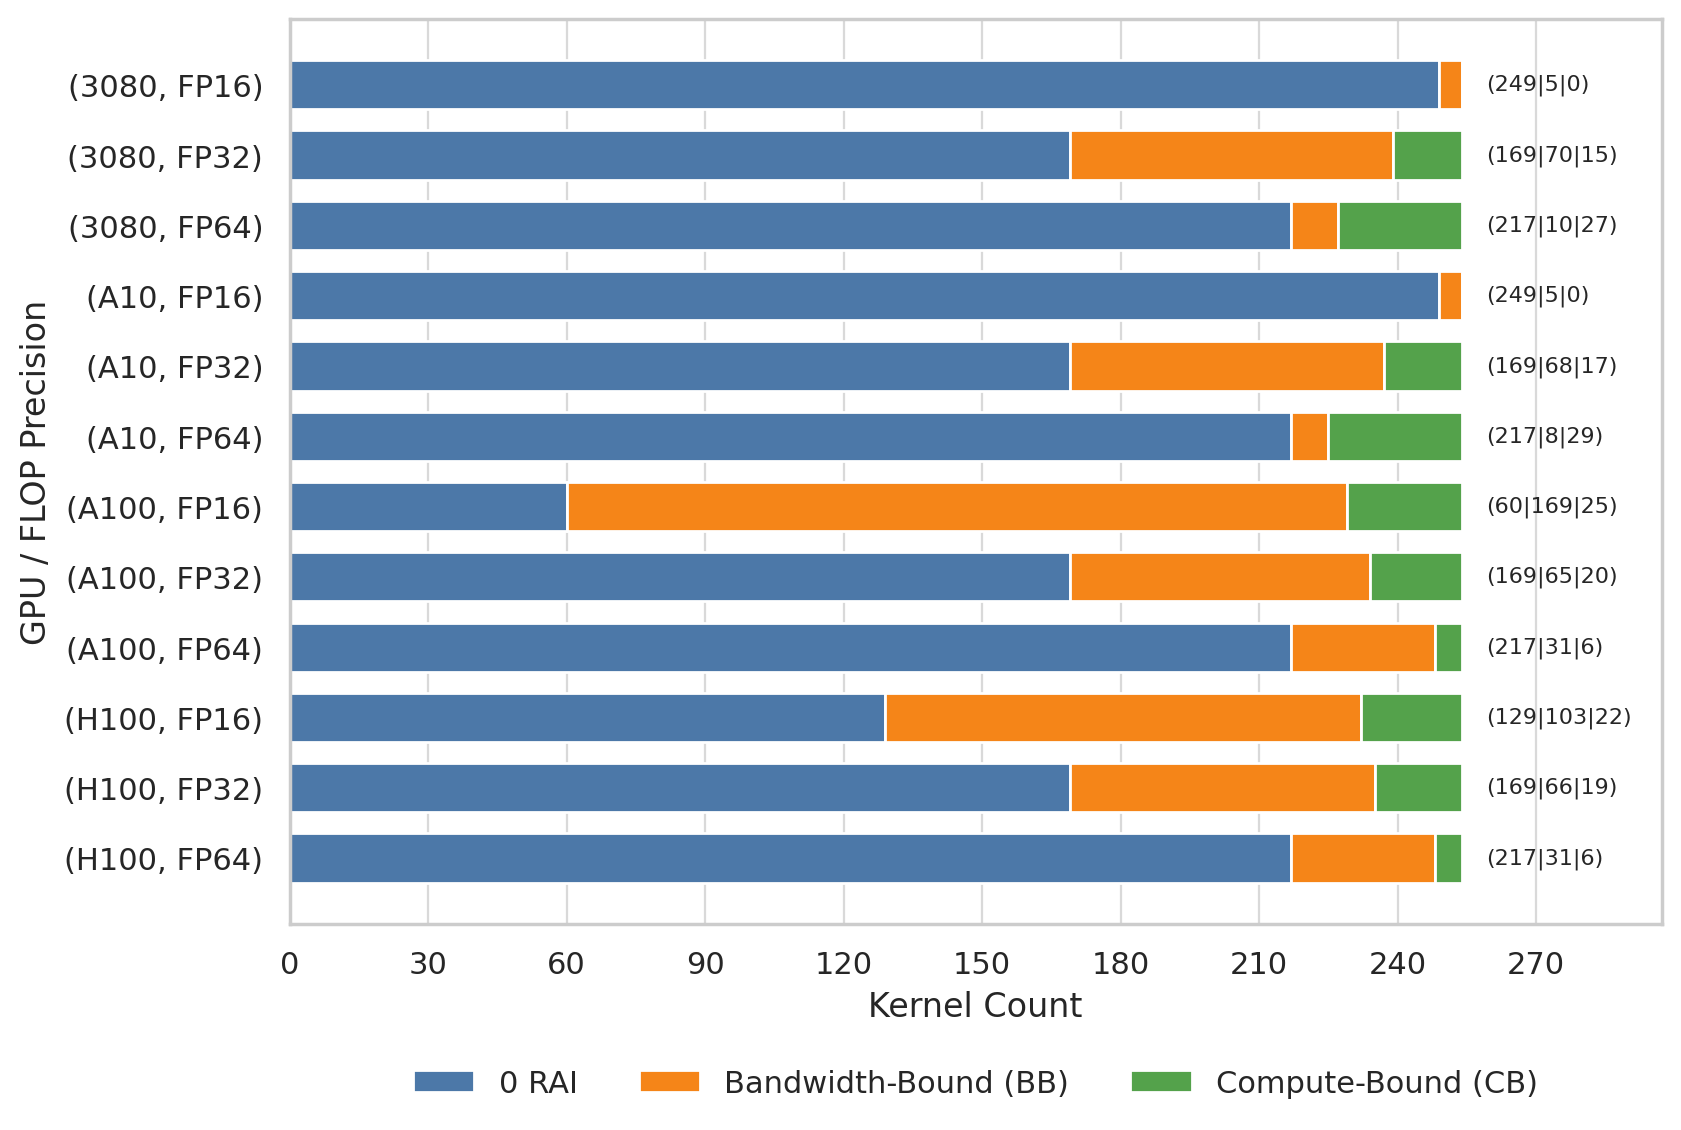
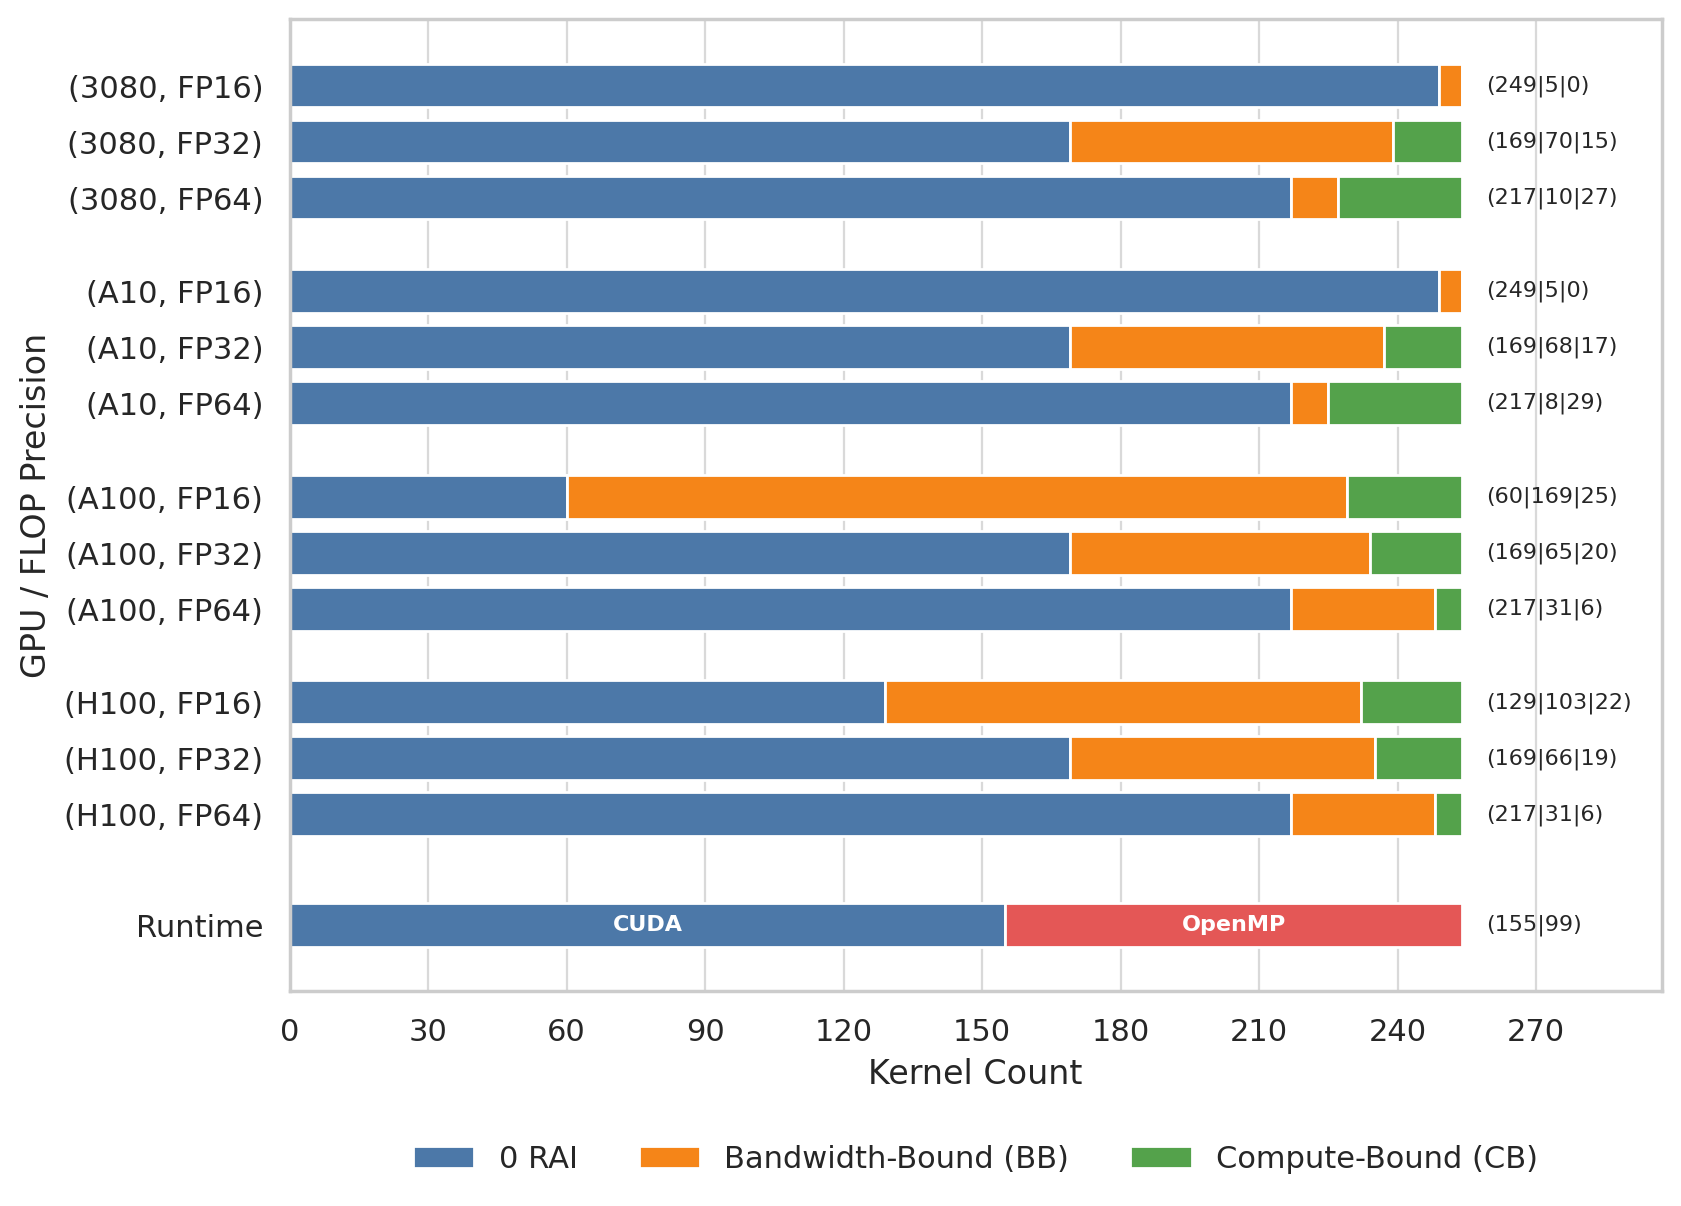
updated figure 6

diff --git a/experiments/direct-prompting/make_plots_for_paper.py b/experiments/direct-prompting/make_plots_for_paper.py
@@ -71,6 +71,15 @@ EXPECTED_RAI_DISTRIBUTION_COLORS = {
 	"nonzero_bandwidth_bound_n": "#f58518",
 	"nonzero_compute_bound_n": "#54a24b",
 }
+RUNTIME_DISTRIBUTION_COLUMNS = ["cuda_n", "omp_n"]
+RUNTIME_DISTRIBUTION_LABELS = {
+	"cuda_n": "CUDA",
+	"omp_n": "OpenMP",
+}
+RUNTIME_DISTRIBUTION_COLORS = {
+	"cuda_n": "#4c78a8",
+	"omp_n": "#e45756",
+}
 TOKEN_COLUMN_LABELS = {
 	"input_tokens": "Input Tokens",
 	"output_tokens": "Output Tokens",
@@ -476,6 +485,42 @@ def _summarize_expected_rai_distribution(plot_df: pd.DataFrame) -> pd.DataFrame:
 		kind="stable",
 	).reset_index(drop=True)
 	return distribution_df[result_columns]
+
+
+def _summarize_runtime_distribution(plot_df: pd.DataFrame) -> pd.DataFrame:
+	result_columns = [
+		"gpu",
+		"precision",
+		*RUNTIME_DISTRIBUTION_COLUMNS,
+		"total_kernels",
+		"count_string",
+	]
+	if plot_df.empty:
+		return pd.DataFrame(columns=result_columns)
+
+	unique_samples_df = (
+		plot_df[["program_name", "kernel_mangled_name", "runtime"]]
+		.dropna(subset=["program_name", "kernel_mangled_name", "runtime"])
+		.drop_duplicates()
+		.reset_index(drop=True)
+	)
+	if unique_samples_df.empty:
+		return pd.DataFrame(columns=result_columns)
+
+	runtime_df = (
+		unique_samples_df.groupby(["runtime"], dropna=False)
+		.size()
+		.to_dict()
+	)
+	runtime_row = {
+		"gpu": "All GPUs",
+		"precision": "Runtime",
+		"cuda_n": int(runtime_df.get("cuda", 0)),
+		"omp_n": int(runtime_df.get("omp", 0)),
+	}
+	runtime_row["total_kernels"] = runtime_row["cuda_n"] + runtime_row["omp_n"]
+	runtime_row["count_string"] = f"({runtime_row['cuda_n']}|{runtime_row['omp_n']})"
+	return pd.DataFrame([runtime_row], columns=result_columns)
 
 
 def _summarize_gpu_kernel_sample_coverage(plot_df: pd.DataFrame) -> Dict[str, pd.DataFrame]:
@@ -1219,10 +1264,14 @@ def _save_figure2_bound_heatmaps(plot_df: pd.DataFrame, output_path: Path) -> No
 def _save_figure6_expected_rai_distribution(
 	expected_rai_distribution_df: pd.DataFrame,
 	output_path: Path,
+	runtime_distribution_df: pd.DataFrame | None = None,
 ) -> None:
 	sns.set_theme(style="whitegrid")
+	combined_row_count = expected_rai_distribution_df.shape[0]
+	if runtime_distribution_df is not None:
+		combined_row_count += runtime_distribution_df.shape[0]
 	fig_height = _bounded_plot_height(
-		expected_rai_distribution_df.shape[0],
+		combined_row_count,
 		min_height=6.5,
 		per_item=0.55,
 		padding=2.0,
@@ -1230,43 +1279,112 @@ def _save_figure6_expected_rai_distribution(
 	)
 	fig, axis = plt.subplots(figsize=_scaled_figsize(11.0, fig_height))
 
-	if expected_rai_distribution_df.empty:
+	if expected_rai_distribution_df.empty and (runtime_distribution_df is None or runtime_distribution_df.empty):
 		axis.text(0.5, 0.5, "No completed samples", ha="center", va="center", transform=axis.transAxes)
 		axis.set_axis_off()
 	else:
-		plot_df = expected_rai_distribution_df.reset_index(drop=True).copy()
-		plot_df["gpu_precision_label"] = plot_df.apply(
-			lambda row: f"({row['gpu']}, {row['precision']})",
-			axis=1,
-		)
-		y_positions = np.arange(plot_df.shape[0])
-		left_offsets = np.zeros(plot_df.shape[0], dtype=float)
-
-		for category in EXPECTED_RAI_DISTRIBUTION_COLUMNS:
-			counts = pd.to_numeric(plot_df[category], errors="coerce").fillna(0.0).to_numpy(dtype=float)
-			axis.barh(
-				y_positions,
-				counts,
-				left=left_offsets,
-				height=0.7,
-				label=EXPECTED_RAI_DISTRIBUTION_LABELS[category],
-				color=EXPECTED_RAI_DISTRIBUTION_COLORS[category],
+		runtime_distribution_df = runtime_distribution_df if runtime_distribution_df is not None else pd.DataFrame()
+		plot_rows: List[Dict[str, Any]] = []
+		intra_group_spacing = 0.82
+		inter_group_gap = 0.55
+		runtime_group_gap = 0.8
+		bar_height = 0.64
+		expected_lookup = {
+			(gpu_name, precision): row
+			for _, row in expected_rai_distribution_df.iterrows()
+			for gpu_name, precision in [(row["gpu"], row["precision"])]
+		}
+		gpu_order = list(GPU_ROOFLINE_TABLE.keys())
+		for gpu_name in gpu_order:
+			for precision in [PRECISION_DISPLAY_LABELS[item] for item in AI_PRECISIONS]:
+				row = expected_lookup.get((gpu_name, precision))
+				if row is None:
+					continue
+				plot_rows.append(
+					{
+						"row_kind": "expected",
+						"gpu": gpu_name,
+						"precision": precision,
+						"gpu_precision_label": f"({gpu_name}, {precision})",
+						**row.to_dict(),
+					}
+				)
+		if not runtime_distribution_df.empty:
+			runtime_row = runtime_distribution_df.iloc[-1].to_dict()
+			plot_rows.append(
+				{
+					"row_kind": "runtime",
+					"gpu": runtime_row.get("gpu", "All GPUs"),
+					"precision": "Runtime",
+					"gpu_precision_label": "Runtime",
+					**runtime_row,
+				}
 			)
-			left_offsets = left_offsets + counts
+		plot_df = pd.DataFrame(plot_rows).reset_index(drop=True)
+		y_positions: List[float] = []
+		current_y = 0.0
+		previous_group: str | None = None
+		for _, row in plot_df.iterrows():
+			group_key = str(row["gpu"]) if row["row_kind"] == "expected" else "Runtime"
+			if previous_group is not None:
+				gap = runtime_group_gap if group_key == "Runtime" or previous_group == "Runtime" else inter_group_gap
+				current_y += intra_group_spacing if group_key == previous_group else intra_group_spacing + gap
+			y_positions.append(current_y)
+			previous_group = group_key
+		plot_df["y_position"] = y_positions
+		added_legend_labels: set[str] = set()
+		for row_index, row in plot_df.iterrows():
+			left_offset = 0.0
+			if row["row_kind"] == "expected":
+				for category in EXPECTED_RAI_DISTRIBUTION_COLUMNS:
+					count = float(pd.to_numeric(row.get(category), errors="coerce") or 0.0)
+					label = EXPECTED_RAI_DISTRIBUTION_LABELS[category]
+					axis.barh(
+						float(row["y_position"]),
+						count,
+						left=left_offset,
+						height=bar_height,
+						label=label if label not in added_legend_labels else None,
+						color=EXPECTED_RAI_DISTRIBUTION_COLORS[category],
+					)
+					added_legend_labels.add(label)
+					left_offset += count
+			else:
+				for runtime_column in RUNTIME_DISTRIBUTION_COLUMNS:
+					count = float(pd.to_numeric(row.get(runtime_column), errors="coerce") or 0.0)
+					axis.barh(
+						float(row["y_position"]),
+						count,
+						left=left_offset,
+						height=bar_height,
+						color=RUNTIME_DISTRIBUTION_COLORS[runtime_column],
+					)
+					if count > 0.0:
+						axis.text(
+							left_offset + count / 2.0,
+							float(row["y_position"]),
+							RUNTIME_DISTRIBUTION_LABELS[runtime_column],
+							ha="center",
+							va="center",
+							fontsize=8,
+							color="white",
+							fontweight="bold",
+						)
+					left_offset += count
 
 		max_total = float(plot_df["total_kernels"].max()) if not plot_df.empty else 1.0
 		label_padding = max(1.0, max_total * 0.02)
 		for row_index, row in plot_df.iterrows():
 			axis.text(
 				float(row["total_kernels"]) + label_padding,
-				row_index,
+				float(row["y_position"]),
 				str(row["count_string"]),
 				va="center",
 				ha="left",
 				fontsize=8,
 			)
 
-		axis.set_yticks(y_positions, plot_df["gpu_precision_label"])
+		axis.set_yticks(plot_df["y_position"].tolist(), plot_df["gpu_precision_label"])
 		axis.invert_yaxis()
 		axis.set_xlabel("Kernel Count")
 		axis.set_ylabel("GPU / FLOP Precision")
@@ -1304,6 +1422,7 @@ def build_paper_plots(db_uri: str, output_dir: Path, include_dry_run: bool, only
 		)
 	_print_bound_class_distribution(plot_df)
 	expected_rai_distribution_df = _summarize_expected_rai_distribution(plot_df)
+	runtime_distribution_df = _summarize_runtime_distribution(plot_df)
 
 	figure1_path = output_dir / "figure1_ai_difference_boxplots.png"
 	figure2_path = output_dir / "figure2_ai_bound_confusion_heatmaps.png"
@@ -1317,7 +1436,7 @@ def build_paper_plots(db_uri: str, output_dir: Path, include_dry_run: bool, only
 	_save_figure3_ai_boxplots_by_gpu(plot_df, figure3_path)
 	_save_figure4_ai_boxplots_by_runtime(plot_df, figure4_path)
 	_save_figure5_token_count_histograms(plot_df, figure5_path)
-	_save_figure6_expected_rai_distribution(expected_rai_distribution_df, figure6_path)
+	_save_figure6_expected_rai_distribution(expected_rai_distribution_df, figure6_path, runtime_distribution_df)
 	_write_paper_summary_tables(plot_df, output_dir, expected_rai_distribution_df)
 
 	print("Paper plot artifacts written to:")

diff --git a/unit-tests/test_direct_prompting_evidence_config.py b/unit-tests/test_direct_prompting_evidence_config.py
@@ -622,6 +622,64 @@ def test_summarize_expected_rai_distribution_counts_unique_kernels_per_gpu_preci
     assert distribution_df["count_string"].tolist() == ["(1|1|1)", "(1|1|1)", "(1|1|1)"]
 
 
+def test_summarize_runtime_distribution_counts_unique_kernels_per_gpu():
+    plot_df = pd.DataFrame(
+        [
+            {
+                "program_name": "prog-a",
+                "kernel_mangled_name": "_Z7kernelAv",
+                "gpu": "A100",
+                "runtime": "cuda",
+                "model_name": "model-a",
+            },
+            {
+                "program_name": "prog-a",
+                "kernel_mangled_name": "_Z7kernelAv",
+                "gpu": "A100",
+                "runtime": "cuda",
+                "model_name": "model-b",
+            },
+            {
+                "program_name": "prog-a",
+                "kernel_mangled_name": "_Z7kernelAv",
+                "gpu": "H100",
+                "runtime": "cuda",
+                "model_name": "model-a",
+            },
+            {
+                "program_name": "prog-b",
+                "kernel_mangled_name": "_Z7kernelBv",
+                "gpu": "A100",
+                "runtime": "cuda",
+                "model_name": "model-a",
+            },
+            {
+                "program_name": "prog-c",
+                "kernel_mangled_name": "_Z7kernelCv",
+                "gpu": "A100",
+                "runtime": "omp",
+                "model_name": "model-a",
+            },
+            {
+                "program_name": "prog-c",
+                "kernel_mangled_name": "_Z7kernelCv",
+                "gpu": "H100",
+                "runtime": "omp",
+                "model_name": "model-a",
+            },
+        ]
+    )
+
+    runtime_df = make_plots_for_paper._summarize_runtime_distribution(plot_df)
+
+    assert runtime_df["gpu"].tolist() == ["All GPUs"]
+    assert runtime_df["precision"].tolist() == ["Runtime"]
+    assert runtime_df["cuda_n"].tolist() == [2]
+    assert runtime_df["omp_n"].tolist() == [1]
+    assert runtime_df["total_kernels"].tolist() == [3]
+    assert runtime_df["count_string"].tolist() == ["(2|1)"]
+
+
 def test_save_figure6_expected_rai_distribution_writes_png(tmp_path: Path):
     distribution_df = pd.DataFrame(
         [
@@ -647,10 +705,26 @@ def test_save_figure6_expected_rai_distribution_writes_png(tmp_path: Path):
             },
         ]
     )
+    runtime_distribution_df = pd.DataFrame(
+        [
+            {
+                "gpu": "A100",
+                "precision": "Runtime",
+                "cuda_n": 2,
+                "omp_n": 1,
+                "total_kernels": 3,
+                "count_string": "(2|1)",
+            }
+        ]
+    )
 
     output_path = tmp_path / "figure6_expected_rai_distribution_by_gpu_precision.png"
 
-    make_plots_for_paper._save_figure6_expected_rai_distribution(distribution_df, output_path)
+    make_plots_for_paper._save_figure6_expected_rai_distribution(
+        distribution_df,
+        output_path,
+        runtime_distribution_df,
+    )
 
     assert output_path.exists()
     assert output_path.stat().st_size > 0
